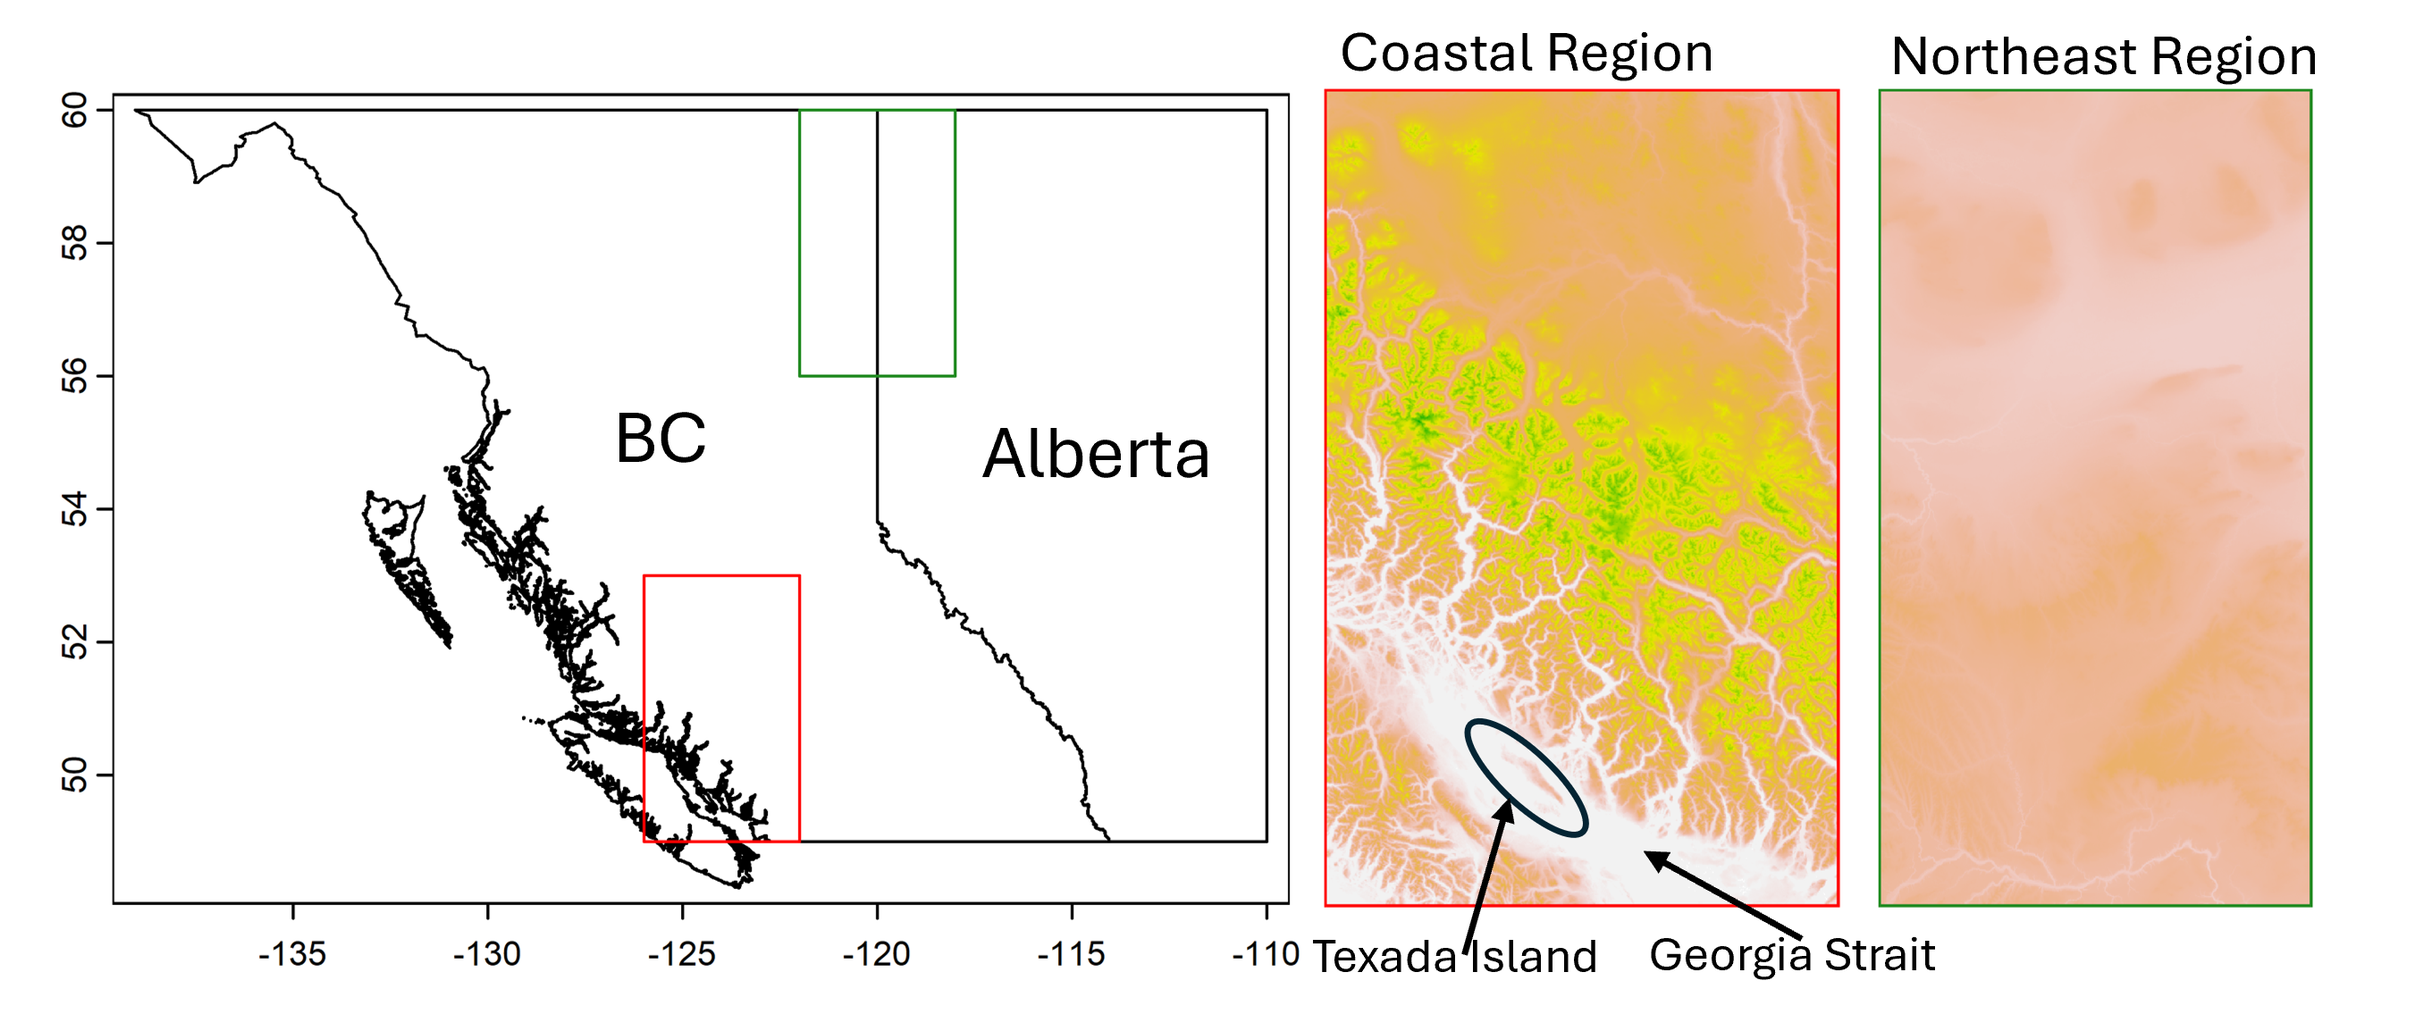
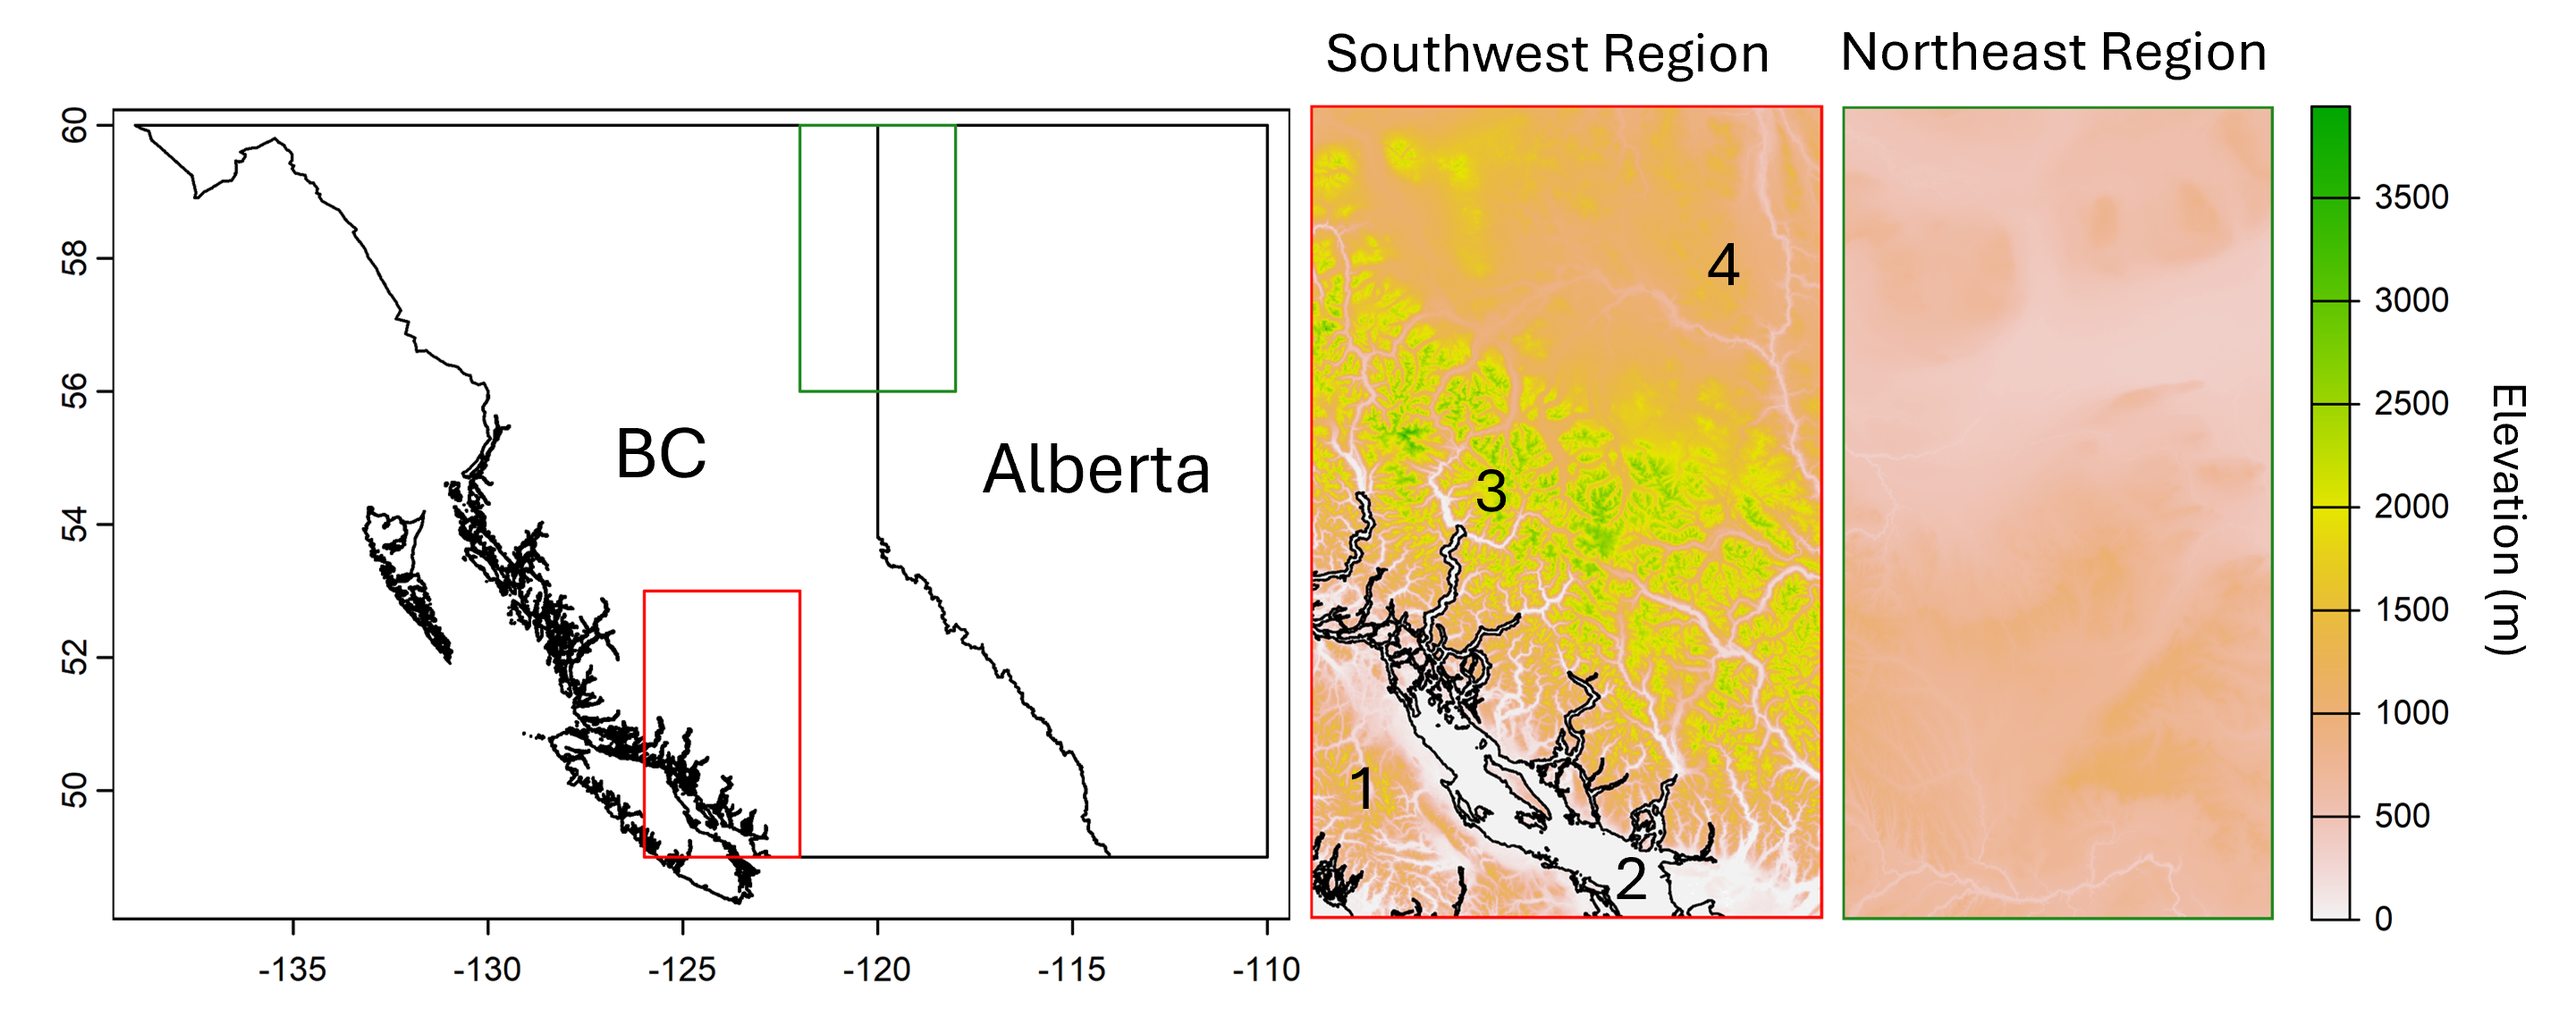
Updates from Overleaf

diff --git a/main.tex b/main.tex
@@ -133,15 +133,15 @@ A natural use of GANs in a downscaling setting involves training on paired HR re
 
 Unless otherwise noted, the GANs we consider use a suite of seven LR covariates: temperature (2m), specific humidity (2m), precipitation, wind components (10m), convective available potential energy (CAPE) and surface pressure. We also include HR topography as an invariant field. For the majority of our analyses, we consider a rectangular region in Southwestern BC, Canada ($49^\circ$ to $53^\circ$ N, $122^\circ$ to $126^\circ$ W; henceforth called the Southwest region), as its high degree of topographic complexity represents a realistically challenging downscaling scenario (figure \ref{studyarea}). \citet{daust2024capturing} tested stochastic GANs for downscaling wind components in this region; we extend the analysis to downscale temperature, specific humidity, and precipitation. As is common in deep learning we standardise all variables to mean zero and unit standard deviation prior to training. 
 
-To investigate the applicability of this GAN framework to different regions, we also investigate a second region in the northeast of BC and the northwest of Alberta (the Northeast region), which in contrast to the Southwest region has flat topography and is influenced by different weather processes. For univariate precipitation and humidity models in this regions, we also include land use index as a second HR invariant field, with HR topography.
+To investigate the applicability of this GAN framework to different regions, we also investigate a second region in the northeast of BC and the northwest of Alberta (the Northeast region), which in contrast to the Southwest region has flat topography and is influenced by different weather processes. We also Land Use Index as a second HR invariant field, containing information about waterbodies and forest ecosystem types. 
 
 \begin{figure}[H]
-  \noindent\includegraphics[width=\textwidth,angle=0]{final/Regions_Fig.png}\\
-  \caption{Maps of study areas, showing (from left to right) study area locations relative to British Columbia and Alberta, and topographic relief of both regions.}\label{studyarea}
+  \noindent\includegraphics[width=\textwidth,angle=0]{final/StudyAreas.png}\\
+  \caption{Maps of study areas, showing (from left to right) study area locations relative to British Columbia and Alberta, and topographic relief of both regions. 1 = Vancouver Island, 2 = Georgia Straight, 3 = Coast Mountains, and 4 = Interior Plateau.}\label{studyarea}
 \end{figure}
 
 \subsection{Model}
-In initial formulations of GANs, the Critic network estimates the probability of a sample being from the training set; the Generator attempts to make it more challenging to distinguish training samples, while the Critic tries to improve its ability at discriminating. This approach often led to instability during training, as it requires that both networks learn at approximately the same rate. \citet{arjovsky2017wasserstein} addressed this challenge with the introduction of the Wasserstein GAN, where the Critic estimates the Wasserstein distance between the generated and training samples. Intuitively, the Wasserstein distance represents the amount of mass required to transform one distribution to another, and is a distance metric between the distributions. In our case, the Wasserstein distance estimates the distance between the high-dimensional distributions of the training data and the generated output. Following recent literature in downscaling and computer vision, we adopt this approach. 
+In the initial GAN formation, the Critic network estimates the probability of a sample being from the training set; the Generator attempts to make it more challenging to distinguish training samples, while the Critic tries to improve its ability at discriminating. This approach often led to instability during training, as it requires that both networks learn at approximately the same rate. \citet{arjovsky2017wasserstein} addressed this challenge with the introduction of the Wasserstein GAN, where the Critic estimates the Wasserstein distance between the generated and training samples. Intuitively, the Wasserstein distance represents the amount of mass required to transform one distribution to another, and is a distance metric between the distributions. In our case, the Wasserstein distance estimates the distance between the high-dimensional distributions of the training data and the generated output. Following recent literature in downscaling and computer vision, we adopt this approach. 
 
 One appealing aspect of GANs compared to more standard Convolutional Neural Networks, especially for climate downscaling, is that they do not solely rely on a pixel-wise error metric as the loss function. Downscaling is an underdetermined problem, meaning that there is not sufficient conditioning information to specify a single ``ideal" output. Thus, while we require convergence in large-scale structure between the downscaled results and the LR conditioning fields, we should accept slight differences in fine-scale structure between the generated output and the training data. Using a pixelwise metric such as mean absolute error can overly constrain models by forcing them to match the training data too closely, a phenomenon known as the double-penalty problem. In such cases, the model will often converge on the conditional median, producing ``blurry" output. In contrast, the ``adversarial loss" calculated by the GAN's Critic network (in our case, the Wasserstein distance) is not a pixel-wise metric, and aims for convergence in distribution, which is a desireable property. However, \citet{wang2018esrgan} showed that only using the adversarial loss in the Generator training procedure often leads to unstable training, where downscaled output does not converge to large-scale structures. They suggested adding a pixel-wise loss back in as the ``content-loss", to push for convergence in realisation at large-scales. We follow this approach, and our Generator loss function is composed of both the adversarial loss, and a pixel-wise content loss. 
 
